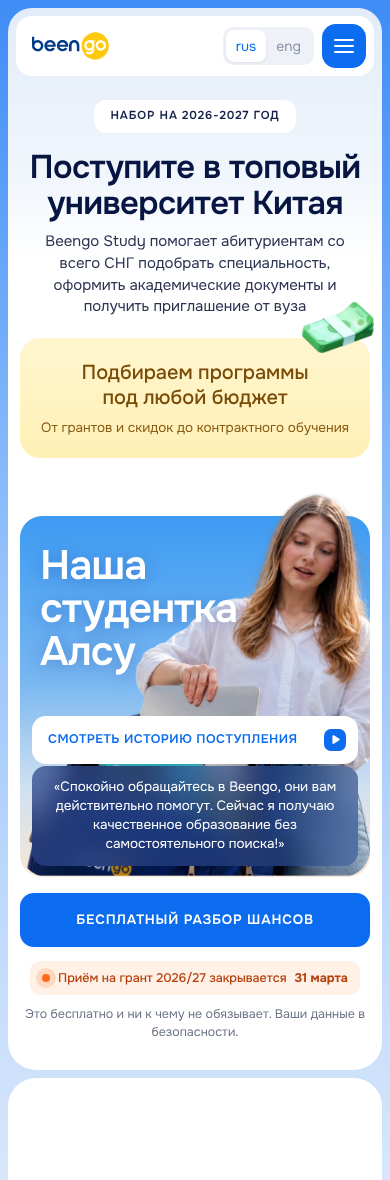
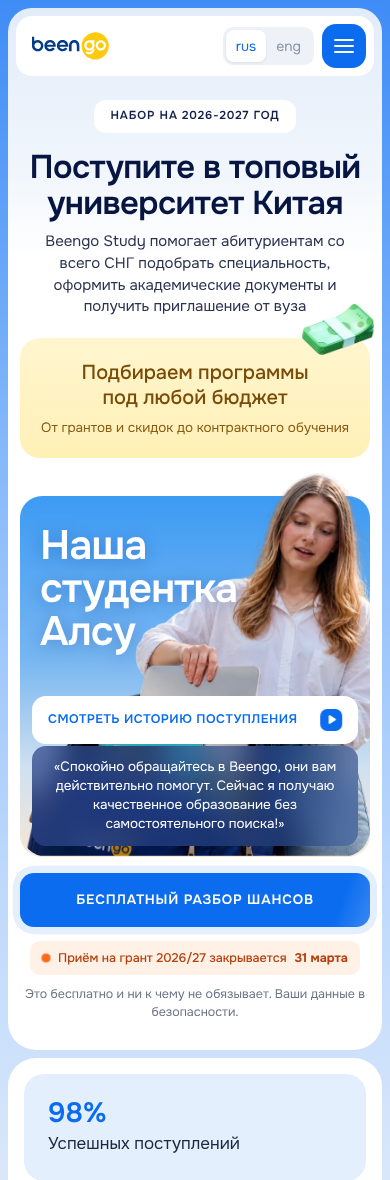
Mobile hero: tighter gap above Alsu card
Claude-Session: https://claude.ai/code/session_01DveQThDXrjAqWsCdBVYsEN

diff --git a/index.html b/index.html
@@ -2426,7 +2426,7 @@ a.uni-card:hover{box-shadow:0 14px 34px rgba(19,52,120,.10)}
 .pv-img img{width:100%;height:100%;object-fit:cover;display:block}
 @media (max-width:680px){.pv-img{aspect-ratio:1710/750!important}}
 
-@media (max-width:980px){.hero-card{position:relative;z-index:2;margin-top:44px!important}.hero-text .budget{position:relative;z-index:1}}
+@media (max-width:980px){.hero-card{position:relative;z-index:2;margin-top:24px!important}.hero-text .budget{position:relative;z-index:1}}
 </style>
 </head>
 <body>
